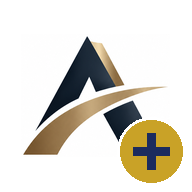
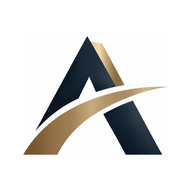
Fix launcher: main page back, quick add in its own folder
The quick-add files had been uploaded over the main launcher, so the main
icon opened the quick page and could not find config.js. Restores the
original index.html, manifest and icons, puts the quick page in quick/
(icons next to the others as quick-*.png) and makes the offline cache keep
each file on its own so one missing file can't break it.

Claude-Session: https://claude.ai/code/session_019gP2qc8eUQQBkdsEnytCaZ

Changed region(s): [[0.5938, 0.5938, 0.9688, 0.9688]]

diff --git a/quick/index.html b/quick/index.html
@@ -1,0 +1,126 @@
+<!DOCTYPE html>
+<html lang="en">
+<head>
+<meta charset="utf-8">
+<meta name="viewport" content="width=device-width, initial-scale=1, viewport-fit=cover">
+<title>Anara Catat</title>
+<meta name="robots" content="noindex, nofollow, noarchive">
+<meta name="theme-color" content="#1b2b5e">
+<meta name="apple-mobile-web-app-capable" content="yes">
+<meta name="mobile-web-app-capable" content="yes">
+<meta name="apple-mobile-web-app-status-bar-style" content="default">
+<meta name="apple-mobile-web-app-title" content="Anara Catat">
+<link rel="manifest" href="manifest.webmanifest">
+<link rel="icon" href="../quick-icon-192.png">
+<!-- Quick add (Catat cepat): same launcher, opens the app straight on the New record form. Its own icon has a gold + badge. -->
+<link rel="apple-touch-icon" href="../quick-apple-touch-icon.png">
+<style>
+  html,body{margin:0;height:100%;background:#fff;font-family:-apple-system,BlinkMacSystemFont,"Segoe UI",Roboto,Arial,sans-serif;color:#131a2c}
+  #top{position:fixed;top:0;left:0;right:0;height:env(safe-area-inset-top);background:#1b2b5e;z-index:3}
+  #app{position:fixed;top:env(safe-area-inset-top);left:0;right:0;bottom:0;width:100%;height:calc(100% - env(safe-area-inset-top));border:0;display:none;background:#f2f4f8}
+  #splash{position:fixed;inset:0;display:flex;flex-direction:column;align-items:center;justify-content:center;gap:20px;background:#fff;z-index:2;padding:24px;text-align:center}
+  #splash img{width:190px;max-width:60vw}
+  .spin{width:26px;height:26px;border:3px solid #1b2b5e;border-right-color:transparent;border-radius:50%;animation:s .8s linear infinite}
+  @keyframes s{to{transform:rotate(360deg)}}
+  .msg{font-size:14px;color:#4a5368;max-width:320px;line-height:1.45}
+  .btn{display:inline-block;background:#1b2b5e;color:#fff;text-decoration:none;border:0;border-radius:12px;padding:12px 18px;font-weight:650;font-size:15px;cursor:pointer}
+  .btn.sec{background:#fff;color:#1b2b5e;border:1px solid #dde2eb}
+  #help{display:none;flex-direction:column;gap:10px;align-items:center}
+  #install{display:none}
+</style>
+</head>
+<body>
+<div id="top"></div>
+<div id="splash">
+  <img src="../logo.png" alt="Anara">
+  <div class="spin" id="spin"></div>
+  <div class="msg" id="msg"></div>
+  <div id="help">
+    <a class="btn" id="direct" href="#">Open Anara Books</a>
+    <button class="btn sec" id="install">Install on this phone</button>
+  </div>
+</div>
+<iframe id="app" title="Anara Catat" allow="clipboard-write; camera; fullscreen" referrerpolicy="no-referrer-when-downgrade"></iframe>
+
+<script src="../config.js"></script>
+<script>
+(function () {
+  var cfg = window.ANARA_CONFIG || {};
+  var url = String(cfg.APP_URL || '').trim();
+  var fullUrl = url;
+  if (url) url += (url.indexOf('?') < 0 ? '?' : '&') + 'quick=1';   // quick add
+  var $ = function (id) { return document.getElementById(id); };
+  var isIOS = /iPad|iPhone|iPod/.test(navigator.userAgent) || (navigator.platform === 'MacIntel' && navigator.maxTouchPoints > 1);
+  var standalone = window.matchMedia('(display-mode: standalone)').matches || window.navigator.standalone === true;
+  var mode = cfg.MODE === 'frame' || cfg.MODE === 'redirect' ? cfg.MODE : (isIOS ? 'redirect' : 'frame');
+
+  // Remember the user's own choice ("Open directly") on this device
+  try { if (localStorage.getItem('anara_mode')) mode = localStorage.getItem('anara_mode'); } catch (e) {}
+
+  function showHelp(text) {
+    $('spin').style.display = 'none';
+    $('msg').innerHTML = text;
+    $('help').style.display = 'flex';
+  }
+
+  if ('serviceWorker' in navigator) navigator.serviceWorker.register('../sw.js').catch(function () {});
+
+  // "Install" button for Android / desktop Chrome
+  var deferred = null;
+  window.addEventListener('beforeinstallprompt', function (e) {
+    e.preventDefault(); deferred = e;
+    if (!standalone) $('install').style.display = 'inline-block';
+  });
+  $('install').onclick = function () { if (deferred) { deferred.prompt(); deferred = null; $('install').style.display = 'none'; } };
+
+  if (!/^https:\/\/script\.google\.com\/.+\/exec/.test(url)) {
+    showHelp('The launcher is not set up yet.<br>Open <b>config.js</b> and paste your Apps Script web app link (ending in <b>/exec</b>).');
+    $('direct').style.display = 'none';
+    return;
+  }
+  $('direct').href = url;
+  $('direct').textContent = 'Open Anara Catat';
+  $('direct').onclick = function () { try { localStorage.setItem('anara_mode', 'redirect'); } catch (e) {} };
+
+  if (!navigator.onLine) {
+    showHelp('No signal. Anara Catat needs a little signal to open. Once it is open, records you save are kept on the phone and sent when the signal is back.');
+    window.addEventListener('online', function () { location.reload(); });
+    return;
+  }
+
+  // First visit in a normal browser tab: suggest installing before opening
+  if (!standalone && !sessionStorage.getItem('anara_seen')) {
+    sessionStorage.setItem('anara_seen', '1');
+    var tip = isIOS
+      ? 'Tip: tap <b>Share</b> → <b>Add to Home Screen</b> to install Anara Catat (quick add) with its own icon.'
+      : 'Tip: use <b>Install</b> (or browser menu → <b>Add to Home screen</b>) to get the Anara Catat icon.';
+    showHelp(tip);
+    $('direct').textContent = 'Continue to Anara Catat';
+    $('direct').onclick = function (e) { e.preventDefault(); start(); };
+    return;
+  }
+  start();
+
+  function start() {
+    if (mode === 'redirect') { location.replace(url); return; }
+    var frame = $('app');
+    frame.style.display = 'block';
+    // The app tells us when it has really loaded (not a sign-in or error page)
+    window.addEventListener('message', function (e) {
+      if (e.data && e.data.anara === 'ready') $('splash').style.display = 'none';
+      if (e.data && e.data.anara === 'open-full') location.href = '../';   // "Open the full app" button
+    });
+    frame.src = url;
+    // If the app hasn't appeared after a while (e.g. sign-in blocked), offer to open it directly
+    setTimeout(function () {
+      if ($('splash').style.display !== 'none') {
+        showHelp('Taking longer than usual. If it doesn\'t load, open it directly:');
+        $('direct').textContent = 'Open Anara Catat directly';
+        $('direct').onclick = function () { try { localStorage.setItem('anara_mode', 'redirect'); } catch (e) {} };
+      }
+    }, 12000);
+  }
+})();
+</script>
+</body>
+</html>

diff --git a/index.html b/index.html
@@ -3,16 +3,15 @@
 <head>
 <meta charset="utf-8">
 <meta name="viewport" content="width=device-width, initial-scale=1, viewport-fit=cover">
-<title>Anara Catat</title>
+<title>Anara Books</title>
 <meta name="robots" content="noindex, nofollow, noarchive">
 <meta name="theme-color" content="#1b2b5e">
 <meta name="apple-mobile-web-app-capable" content="yes">
 <meta name="mobile-web-app-capable" content="yes">
 <meta name="apple-mobile-web-app-status-bar-style" content="default">
-<meta name="apple-mobile-web-app-title" content="Anara Catat">
+<meta name="apple-mobile-web-app-title" content="Anara Books">
 <link rel="manifest" href="manifest.webmanifest">
 <link rel="icon" href="icon-192.png">
-<!-- Quick add (Catat cepat): same launcher, opens the app straight on the New record form. Its own icon has a gold + badge. -->
 <link rel="apple-touch-icon" href="apple-touch-icon.png">
 <style>
   html,body{margin:0;height:100%;background:#fff;font-family:-apple-system,BlinkMacSystemFont,"Segoe UI",Roboto,Arial,sans-serif;color:#131a2c}
@@ -32,7 +31,7 @@
 <body>
 <div id="top"></div>
 <div id="splash">
-  <img src="../logo.png" alt="Anara">
+  <img src="logo.png" alt="Anara">
   <div class="spin" id="spin"></div>
   <div class="msg" id="msg"></div>
   <div id="help">
@@ -40,15 +39,13 @@
     <button class="btn sec" id="install">Install on this phone</button>
   </div>
 </div>
-<iframe id="app" title="Anara Catat" allow="clipboard-write; camera; fullscreen" referrerpolicy="no-referrer-when-downgrade"></iframe>
+<iframe id="app" title="Anara Books" allow="clipboard-write; camera; fullscreen" referrerpolicy="no-referrer-when-downgrade"></iframe>
 
-<script src="../config.js"></script>
+<script src="config.js"></script>
 <script>
 (function () {
   var cfg = window.ANARA_CONFIG || {};
   var url = String(cfg.APP_URL || '').trim();
-  var fullUrl = url;
-  if (url) url += (url.indexOf('?') < 0 ? '?' : '&') + 'quick=1';   // quick add
   var $ = function (id) { return document.getElementById(id); };
   var isIOS = /iPad|iPhone|iPod/.test(navigator.userAgent) || (navigator.platform === 'MacIntel' && navigator.maxTouchPoints > 1);
   var standalone = window.matchMedia('(display-mode: standalone)').matches || window.navigator.standalone === true;
@@ -63,7 +60,7 @@
     $('help').style.display = 'flex';
   }
 
-  if ('serviceWorker' in navigator) navigator.serviceWorker.register('../sw.js').catch(function () {});
+  if ('serviceWorker' in navigator) navigator.serviceWorker.register('sw.js').catch(function () {});
 
   // "Install" button for Android / desktop Chrome
   var deferred = null;
@@ -79,11 +76,10 @@
     return;
   }
   $('direct').href = url;
-  $('direct').textContent = 'Open Anara Catat';
   $('direct').onclick = function () { try { localStorage.setItem('anara_mode', 'redirect'); } catch (e) {} };
 
   if (!navigator.onLine) {
-    showHelp('No signal. Anara Catat needs a little signal to open. Once it is open, records you save are kept on the phone and sent when the signal is back.');
+    showHelp('You are offline. Anara Books needs internet to load your records.');
     window.addEventListener('online', function () { location.reload(); });
     return;
   }
@@ -92,10 +88,10 @@
   if (!standalone && !sessionStorage.getItem('anara_seen')) {
     sessionStorage.setItem('anara_seen', '1');
     var tip = isIOS
-      ? 'Tip: tap <b>Share</b> → <b>Add to Home Screen</b> to install Anara Catat (quick add) with its own icon.'
-      : 'Tip: use <b>Install</b> (or browser menu → <b>Add to Home screen</b>) to get the Anara Catat icon.';
+      ? 'Tip: tap <b>Share</b> → <b>Add to Home Screen</b> to install Anara Books with its own icon.'
+      : 'Tip: use <b>Install</b> (or browser menu → <b>Add to Home screen</b>) to get the Anara Books icon.';
     showHelp(tip);
-    $('direct').textContent = 'Continue to Anara Catat';
+    $('direct').textContent = 'Continue to Anara Books';
     $('direct').onclick = function (e) { e.preventDefault(); start(); };
     return;
   }
@@ -108,14 +104,13 @@
     // The app tells us when it has really loaded (not a sign-in or error page)
     window.addEventListener('message', function (e) {
       if (e.data && e.data.anara === 'ready') $('splash').style.display = 'none';
-      if (e.data && e.data.anara === 'open-full') location.href = '../';   // "Open the full app" button
     });
     frame.src = url;
     // If the app hasn't appeared after a while (e.g. sign-in blocked), offer to open it directly
     setTimeout(function () {
       if ($('splash').style.display !== 'none') {
         showHelp('Taking longer than usual. If it doesn\'t load, open it directly:');
-        $('direct').textContent = 'Open Anara Catat directly';
+        $('direct').textContent = 'Open Anara Books directly';
         $('direct').onclick = function () { try { localStorage.setItem('anara_mode', 'redirect'); } catch (e) {} };
       }
     }, 12000);

diff --git a/sw.js b/sw.js
@@ -2,10 +2,14 @@
 var CACHE = 'anara-launcher-v3';
 var FILES = ['./', './index.html', './config.js', './manifest.webmanifest',
   './icon-192.png', './icon-512.png', './maskable-512.png', './apple-touch-icon.png', './logo.png',
-  './quick/', './quick/index.html', './quick/manifest.webmanifest', './quick/icon-192.png', './quick/icon-512.png', './quick/maskable-512.png', './quick/apple-touch-icon.png'];
+  './quick/', './quick/index.html', './quick/manifest.webmanifest',
+  './quick-icon-192.png', './quick-icon-512.png', './quick-maskable-512.png', './quick-apple-touch-icon.png'];
 
 self.addEventListener('install', function (e) {
-  e.waitUntil(caches.open(CACHE).then(function (c) { return c.addAll(FILES); }).then(function () { return self.skipWaiting(); }));
+  // each file on its own: one missing file must not stop the rest from being kept
+  e.waitUntil(caches.open(CACHE).then(function (c) {
+    return Promise.all(FILES.map(function (f) { return c.add(f).catch(function () {}); }));
+  }).then(function () { return self.skipWaiting(); }));
 });
 
 self.addEventListener('activate', function (e) {

diff --git a/PWA-SETUP.md b/PWA-SETUP.md
@@ -42,7 +42,7 @@ The Anara icon then appears on the home screen and opens the app full screen.
 The app now allows itself to be shown inside another page (needed for the full-screen launcher). It still only works for signed-in Google accounts on your Users list, so nobody else can see data. Only share the launcher link with your staff.
 
 ## Quick add icon: "Anara Catat"
-A second home-screen icon that opens the app straight on the **New record** form, for recording on the move. Same logo with a gold **+** badge.
+A second home-screen icon that opens the app straight on the **New record** form, for recording on the move. Same logo with a gold **+** badge (files `quick-*.png` next to the other icons; the page itself is in the `quick` folder).
 - Link: your launcher address + `quick/`, e.g. `https://anarahss-spec.github.io/anara-books/quick/`
 - Install it the same way as the main icon (open the link → Install / Add to Home Screen). Phones can have both icons.
 - It needs a little signal to **open**. Once open, records you save are **kept on the phone** and sent by themselves when the signal is back. Nothing is sent twice, even if the signal drops mid-send.
